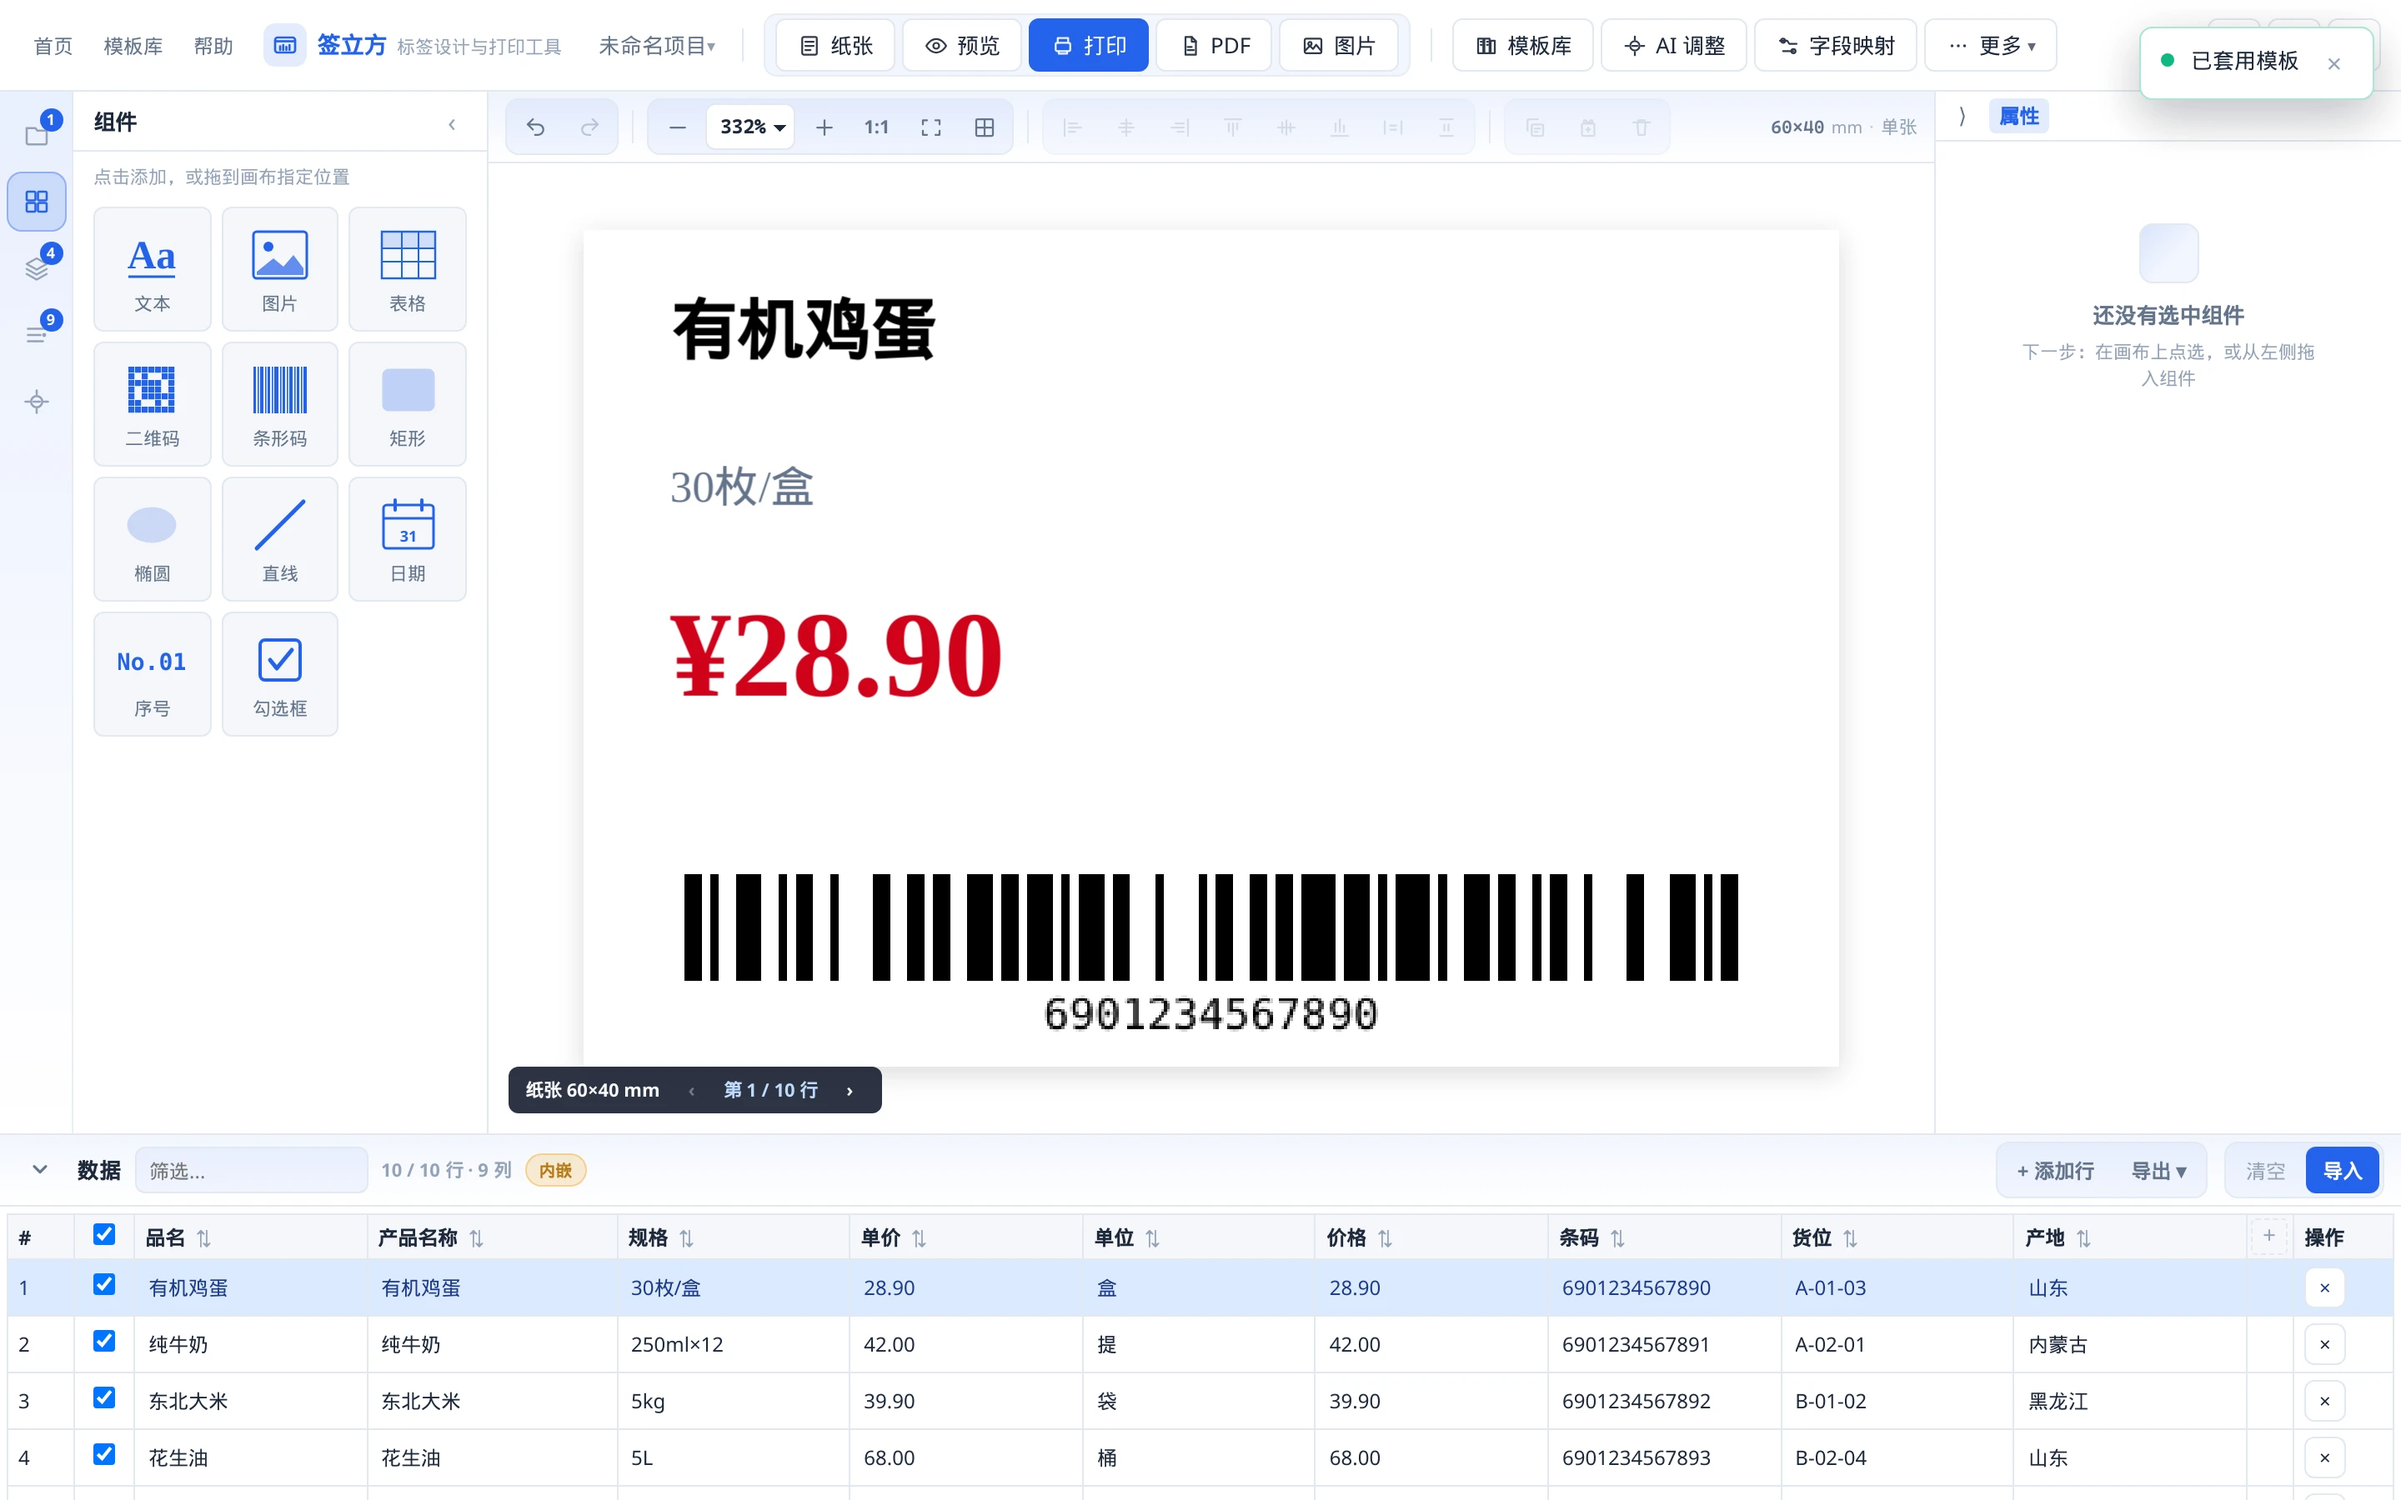
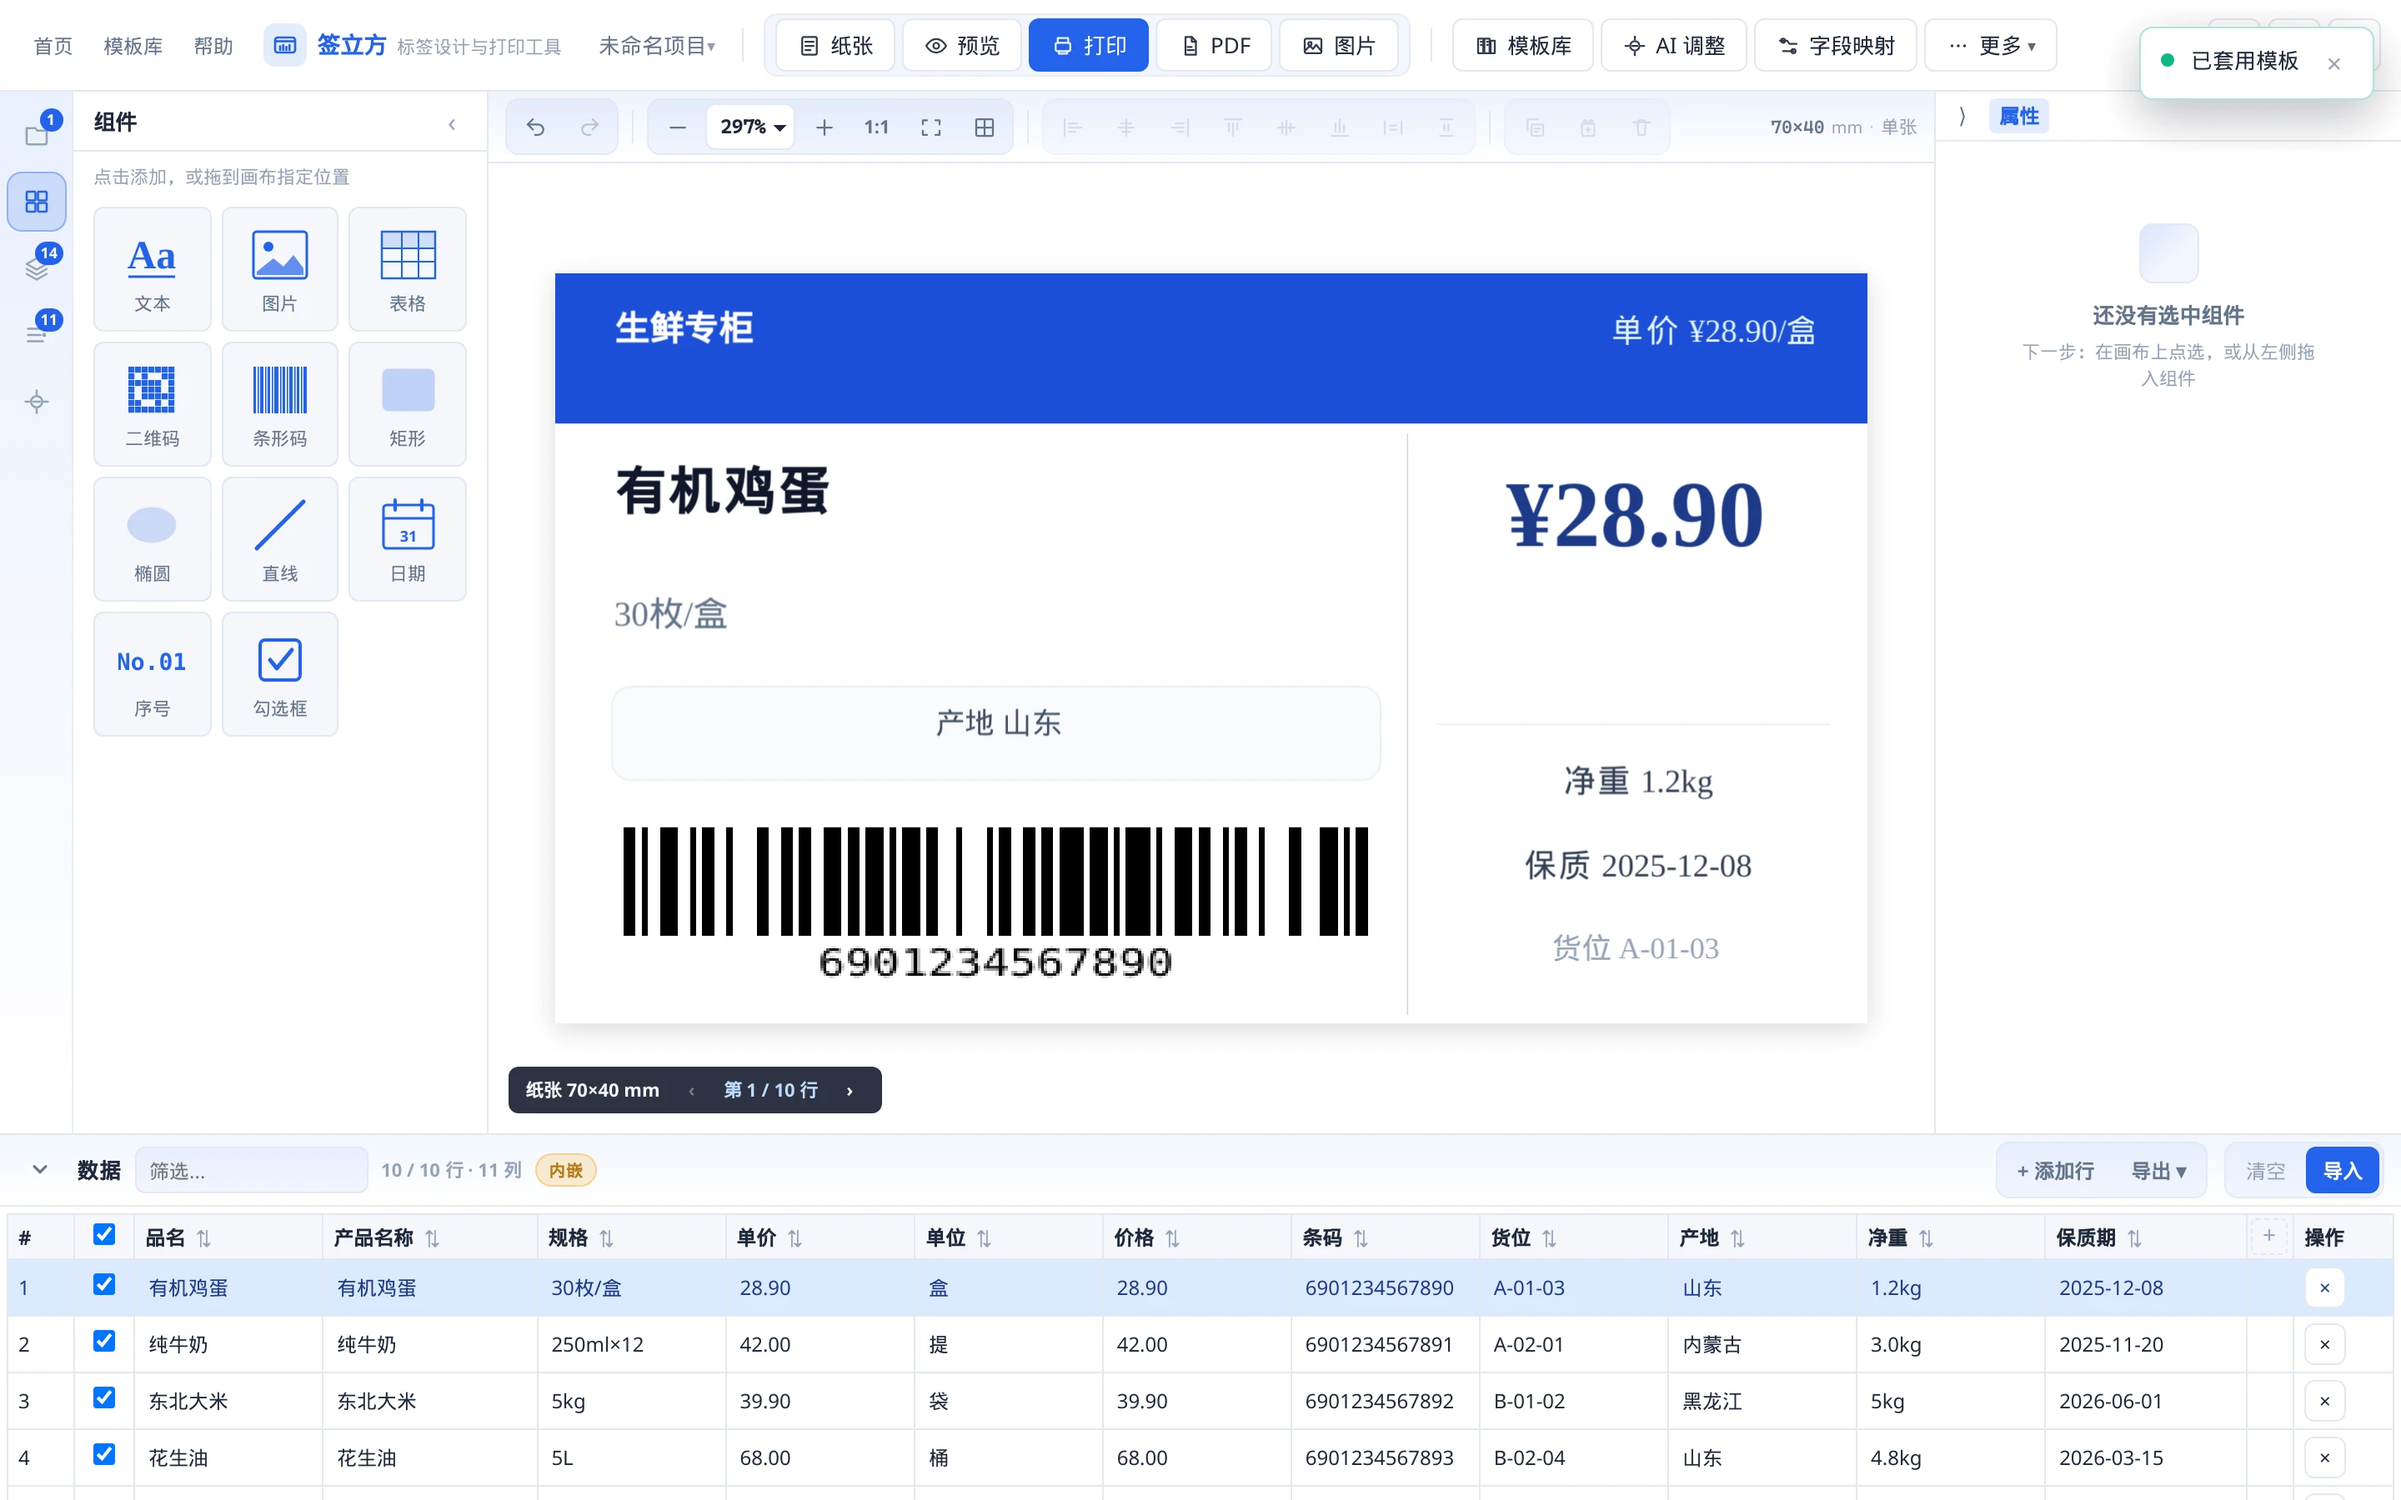
feat(templates): add tpl_retail_shelf_70 grocery shelf price tag
Two-column 70×40 layout with blue header, divider lines, barcode block,
and price/net-weight/expiry fields. Wire retail-price scene pack and capture
print-preview marketing specimen (sample-price-tag.webp).

diff --git a/src/utils/templates.js b/src/utils/templates.js
@@ -21,9 +21,14 @@ const qrcode = (id, name, { left, top, width, height, binding = '', text: t = ''
   text: t, binding
 })
 
-const rect = (id, name, { left, top, width, height, fill = '#2563eb', stroke = '', strokeWidth = 0 }) => ({
+const rect = (id, name, { left, top, width, height, fill = '#2563eb', stroke = '', strokeWidth = 0, rx = 0 }) => ({
   id, type: 'rect', name, left, top, width, height, angle: 0,
-  fill, stroke, strokeWidth, binding: ''
+  fill, stroke, strokeWidth, rx, binding: ''
+})
+
+const line = (id, name, { left, top, width, stroke = '#cbd5e1', strokeWidth = 0.2, angle = 0 }) => ({
+  id, type: 'line', name, left, top, width, height: 0.2, angle,
+  stroke, strokeWidth, binding: ''
 })
 
 const table = (id, name, { left, top, width, height, rows, cols, fontSize = 8, cells = {}, colWidths = [], cellPadding = 1 }) => ({
@@ -184,6 +189,37 @@ export const BUILTIN_TEMPLATES = [
       text('tpl_grocery_price-c3', '单价', { left: 4, top: 21, width: 40, height: 11, text: '¥{{单价}}', fontSize: 22, fontWeight: 'bold', fill: '#d0021b' }),
       text('tpl_grocery_price-c4', '单位', { left: 44, top: 26, width: 22, height: 4, text: '/{{单位}}', fontSize: 8, fill: '#94a3b8' }),
       barcode('tpl_grocery_price-c5', '条码', { left: 4, top: 30, width: 62, height: 9, binding: '条码' })
+    ]
+  },
+  {
+    id: 'tpl_retail_shelf_70',
+    name: '货架价签 70×40（分栏）',
+    group: '零售',
+    desc: '蓝顶栏 · 左侧品名与条码 · 右侧大字价格/净重/保质期（超市货架）',
+    fields: ['品名', '规格', '单价', '单位', '价格', '条码', '净重', '保质期', '货位', '产地'],
+    paper: labelPaper(70, 40),
+    label: { width: 70, height: 40, backgroundColor: '#ffffff', showBorder: false, borderColor: '#000000', borderWidth: 0.3 },
+    margin: zeroMargin,
+    layout: { ...singleLayout },
+    components: [
+      rect('tpl_retail_shelf_70-r1', '顶栏', { left: 0, top: 0, width: 70, height: 8, fill: '#1d4ed8' }),
+      text('tpl_retail_shelf_70-h1', '顶栏左', { left: 3, top: 1.8, width: 28, height: 4, text: '生鲜专柜', fontSize: 7, fontWeight: 'bold', fill: '#ffffff' }),
+      text('tpl_retail_shelf_70-h2', '顶栏右', {
+        left: 32, top: 2, width: 35, height: 4, text: '单价 ¥{{单价}}/{{单位}}', fontSize: 6.5, fill: '#e0f2fe', textAlign: 'right'
+      }),
+      line('tpl_retail_shelf_70-v1', '分栏线', { left: 45.2, top: 8.5, width: 24, stroke: '#cbd5e1', strokeWidth: 0.25, angle: 90 }),
+      text('tpl_retail_shelf_70-c1', '品名', { left: 3, top: 10, width: 41, height: 7, text: '{{品名}}', fontSize: 10.5, fontWeight: 'bold', fill: '#0f172a' }),
+      text('tpl_retail_shelf_70-c2', '规格', { left: 3, top: 17, width: 41, height: 4.5, text: '{{规格}}', fontSize: 7, fill: '#64748b' }),
+      rect('tpl_retail_shelf_70-r2', '产地框', { left: 3, top: 22, width: 41, height: 5, fill: '#f8fafc', stroke: '#e2e8f0', strokeWidth: 0.2, rx: 1 }),
+      text('tpl_retail_shelf_70-c3', '产地', { left: 4, top: 23, width: 39, height: 3.5, text: '产地 {{产地}}', fontSize: 6, fill: '#475569', textAlign: 'center' }),
+      barcode('tpl_retail_shelf_70-c4', '条码', { left: 3, top: 29, width: 41, height: 9, binding: '条码' }),
+      text('tpl_retail_shelf_70-c5', '价格', {
+        left: 46, top: 10, width: 23, height: 12, text: '¥{{价格}}', fontSize: 19, fontWeight: 'bold', fill: '#1e3a8a', textAlign: 'center'
+      }),
+      line('tpl_retail_shelf_70-hr', '价区分隔', { left: 47, top: 24, width: 21, stroke: '#e2e8f0', strokeWidth: 0.2 }),
+      text('tpl_retail_shelf_70-c6', '净重', { left: 46, top: 26, width: 23, height: 4, text: '净重 {{净重}}', fontSize: 6.5, fill: '#334155', textAlign: 'center' }),
+      text('tpl_retail_shelf_70-c7', '保质期', { left: 46, top: 30.5, width: 23, height: 4, text: '保质 {{保质期}}', fontSize: 6.5, fill: '#334155', textAlign: 'center' }),
+      text('tpl_retail_shelf_70-c8', '货位', { left: 46, top: 35, width: 23, height: 3.5, text: '货位 {{货位}}', fontSize: 6, fill: '#94a3b8', textAlign: 'center' })
     ]
   },
   {

diff --git a/src/content/marketingAssets.js b/src/content/marketingAssets.js
@@ -10,7 +10,7 @@ const BASE = '/marketing'
 const SPECIMEN = {
   priceTag: {
     src: `${BASE}/sample-price-tag.webp`,
-    alt: '签立方打印预览：60×40 价签（有机鸡蛋示例）'
+    alt: '签立方打印预览：货架价签 70×40 分栏版（有机鸡蛋示例）'
   },
   waybill: {
     src: `${BASE}/sample-waybill.webp`,
@@ -67,6 +67,7 @@ export const SCENES = {
 /** @type {Record<string, { src: string, alt: string }>} */
 export const TEMPLATE_COVERS = {
   tpl_grocery_price: SPECIMEN.priceTag,
+  tpl_retail_shelf_70: SPECIMEN.priceTag,
   tpl_express: SPECIMEN.waybill,
   tpl_asset_fixed: SPECIMEN.assetTag,
   tpl_warehouse_bin: SPECIMEN.binLabel,

diff --git a/src/utils/scenePacks.js b/src/utils/scenePacks.js
@@ -6,7 +6,7 @@ export const SCENE_PACKS = [
   {
     id: 'retail-price',
     name: '生鲜价签',
-    templateId: 'tpl_grocery_price',
+    templateId: 'tpl_retail_shelf_70',
     sampleId: 'retail',
     blurb: '品名、规格、价格、条码 — 适合超市与生鲜价签',
     mergeKeyHints: ['条码', '货号'],

diff --git a/src/utils/samples.js b/src/utils/samples.js
@@ -14,6 +14,7 @@ export const SAMPLE_DATASETS = [
     path: '/samples/sample-retail.csv',
     fileName: 'sample-retail.csv',
     suggestedTemplateIds: [
+      'tpl_retail_shelf_70',
       'tpl_grocery_price',
       'tpl_shelf_strip',
       'tpl_price_tag',
